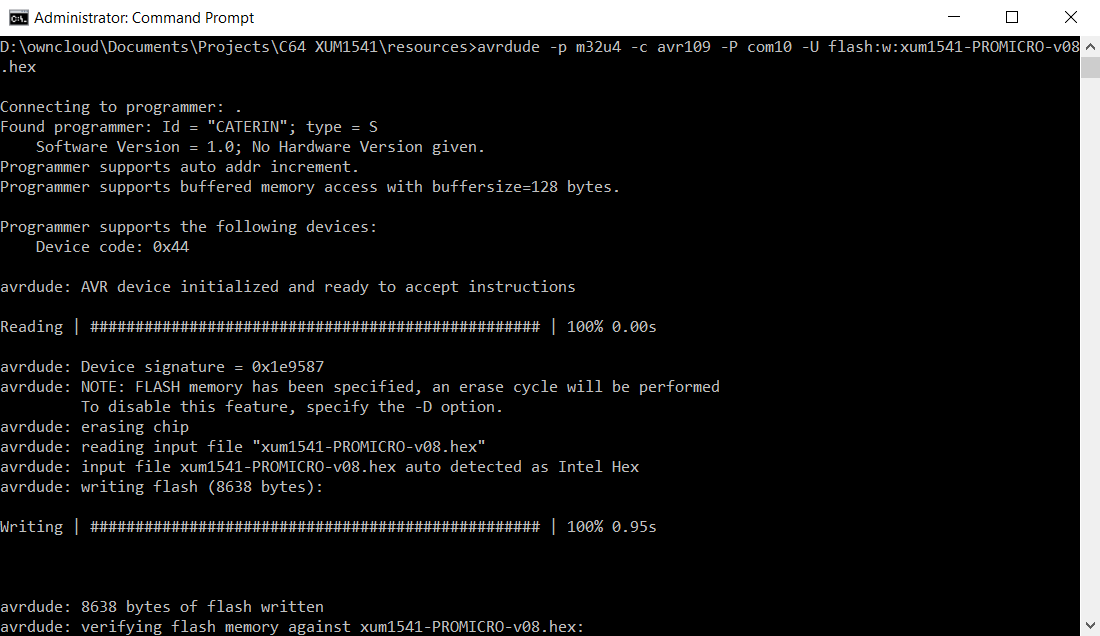
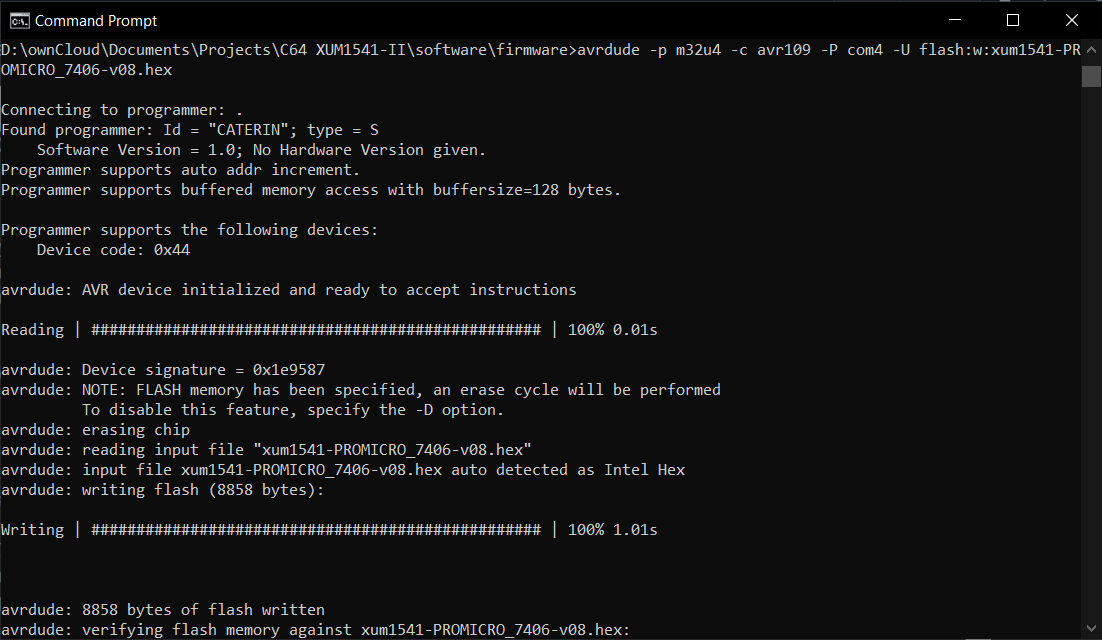
Updated firmware install pictures

diff --git a/documentation/firmware.md b/documentation/firmware.md
@@ -21,10 +21,10 @@ Before we can flash the Arduino Pro Micro, we'll need to know which COM-port Win
 
 ![device_manager](https://github.com/tebl/C64-XUM1541-II/raw/main/gallery/documentation/device_manager.png)
 
-On my computer the port showed up as com10, you need to pay attention and make a note of what this number is on your computer. After the already mentioned 8-second timeout it'll change again, but never mind that - as we now know what to use with *avrdude*. Type in the command as below, substituting your actual com-port, but do **NOT** press ENTER at this point. Reset the Arduino Pro Micro again by pushing *reset* **twice** and then quickly press ENTER to run the command (you'll have 8 seconds). 
+On my computer the port showed up as com4, you need to pay attention and make a note of what this number is on your computer. After the already mentioned 8-second timeout it'll change again, but never mind that - as it is this first one we need to use with *avrdude*. Type in the command as below, substituting your actual com-port, but do **NOT** press ENTER at this point. Reset the Arduino Pro Micro again by pushing *reset* **twice** and then quickly press ENTER to run the command (you'll have 8 seconds). 
 
 ```
-avrdude -p m32u4 -c avr109 -P com10 -U flash:w:xum1541-PROMICRO_7406-v08.hex
+avrdude -p m32u4 -c avr109 -P com4 -U flash:w:xum1541-PROMICRO_7406-v08.hex
 ```
 
 If all things go as expected you should get something like the following, just ignore the specifics and ensure that it at the moment verifies that the firmware was written correctly. If it times out or bombs out with an error message, you were probably too late when resetting the Arduino Pro Micro so just try it again until you finally succeed.
